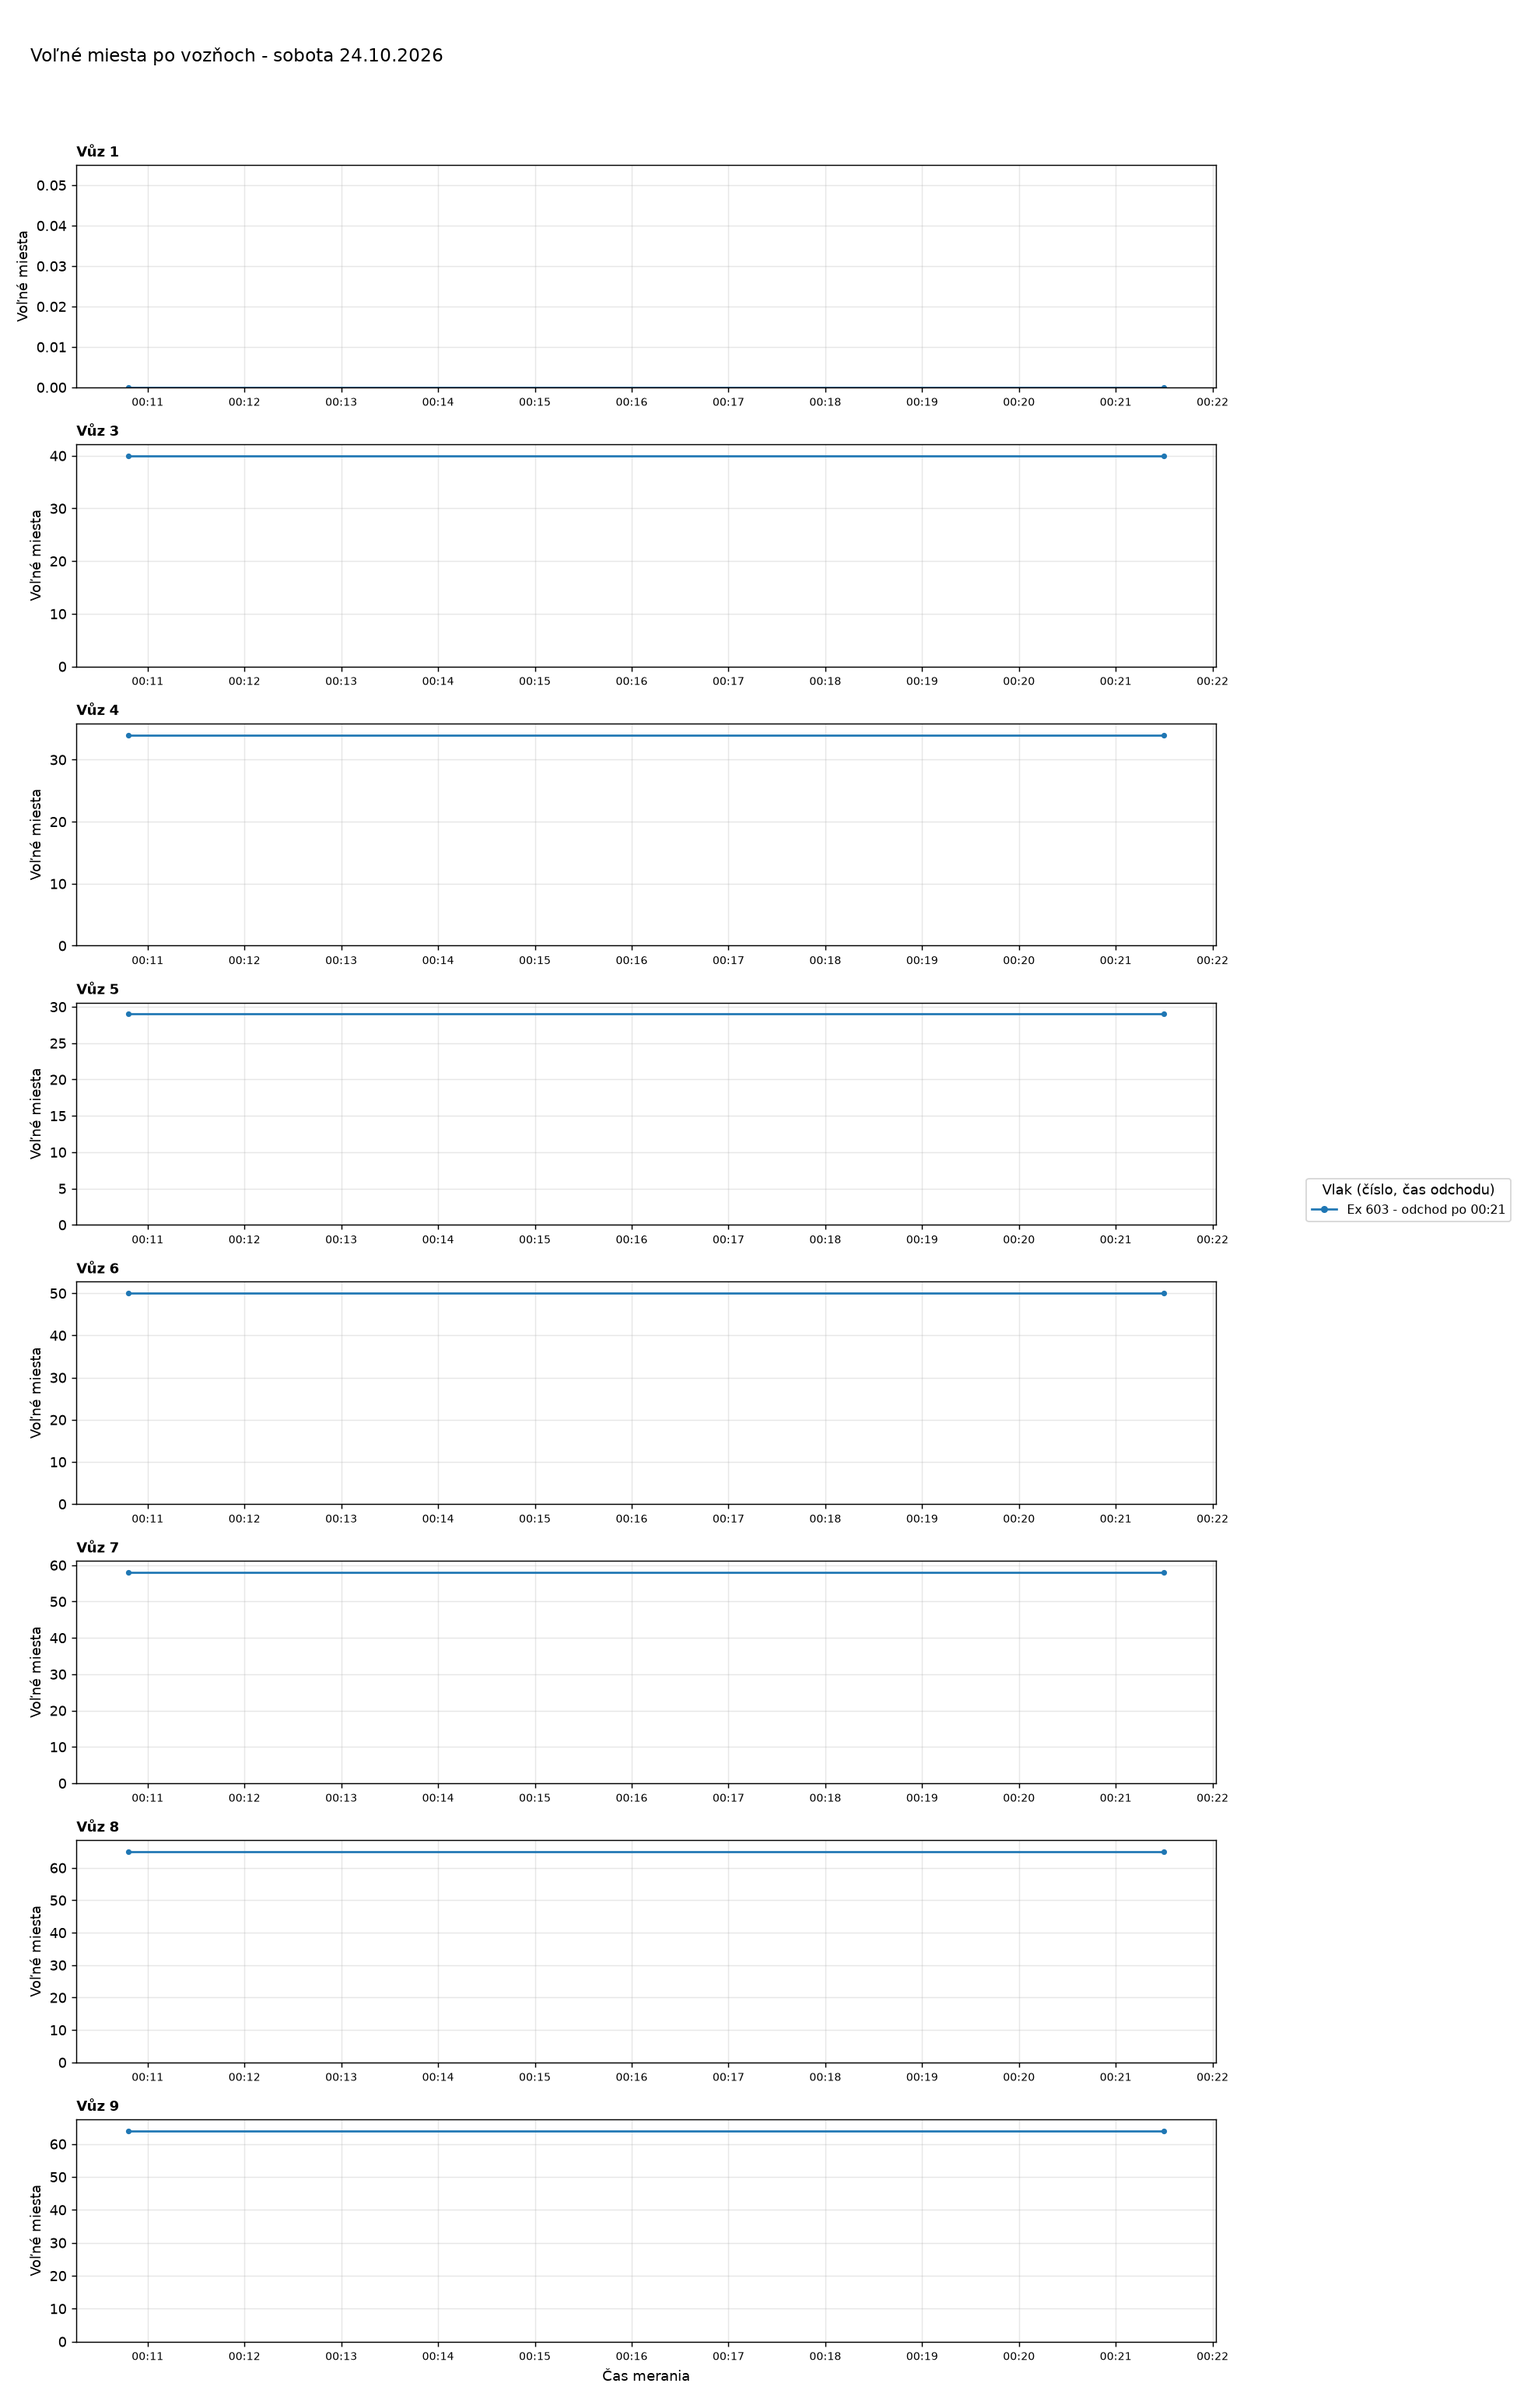
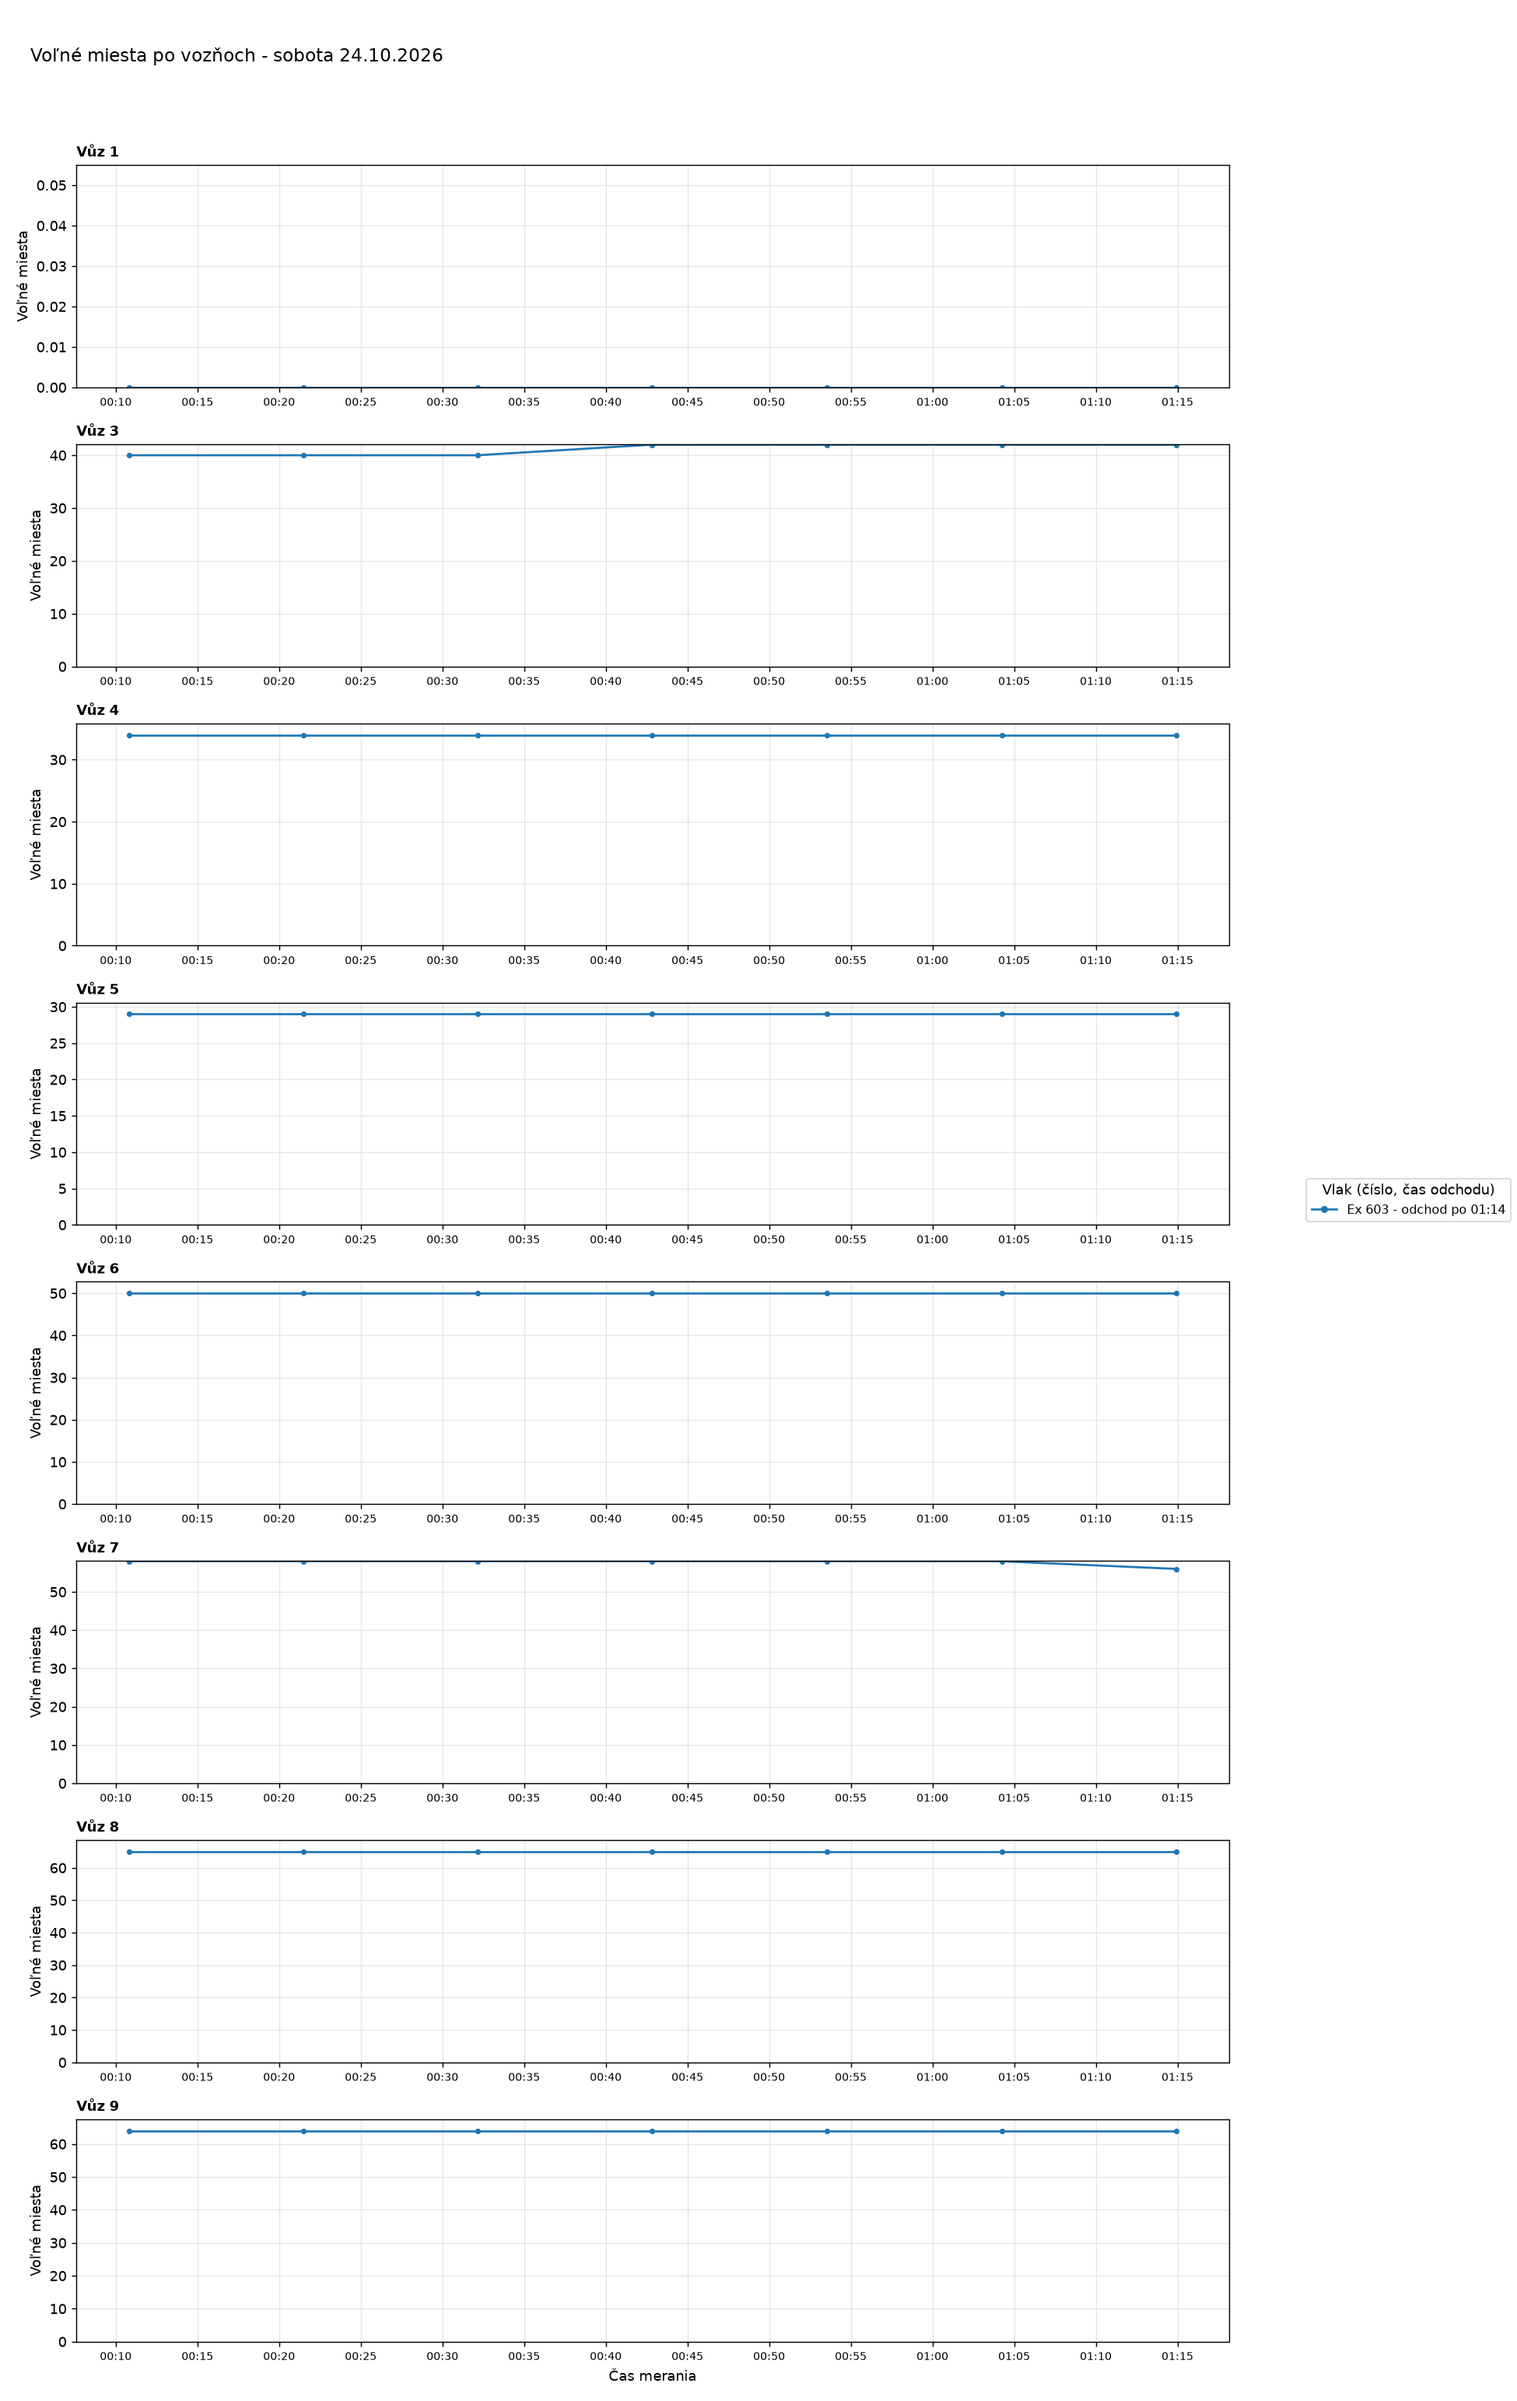
Aktualizácia grafov 2026-10-24 01:24

diff --git a/index.html b/index.html
@@ -35,7 +35,7 @@ h2.oddiel{margin:36px 0 0;font-size:1.4rem}
 <body>
 <main>
 <h1>Voľné miesta vo vlakoch</h1>
-<p class="muted">Posledné meranie: 24.10.2026 00:21 ·
+<p class="muted">Posledné meranie: 24.10.2026 01:14 ·
 <a href="data/obsadenost_data.csv">stiahnuť dáta (CSV)</a></p>
 <nav class="nav"><a href="#suhrn">Súhrn</a><a href="#statistiky">Štatistiky</a><a href="#historia">História grafov</a></nav>
 
@@ -44,7 +44,7 @@ h2.oddiel{margin:36px 0 0;font-size:1.4rem}
 <div class="tablewrap"><table>
 <thead><tr><th>Deň</th><th>Meraní</th><th>Vlakov</th><th>Čas meraní</th></tr></thead>
 <tbody>
-<tr><td><a href="#d2026-10-24">sobota 24.10.2026</a></td><td>2</td><td>1</td><td>00:10-00:21</td></tr>
+<tr><td><a href="#d2026-10-24">sobota 24.10.2026</a></td><td>7</td><td>1</td><td>00:10-01:14</td></tr>
 <tr><td><a href="#d2026-10-23">piatok 23.10.2026</a></td><td>64</td><td>13</td><td>07:25-23:49</td></tr>
 <tr><td><a href="#d2026-10-22">štvrtok 22.10.2026</a></td><td>80</td><td>11</td><td>00:08-16:10</td></tr>
 <tr><td><a href="#d2026-10-21">streda 21.10.2026</a></td><td>96</td><td>15</td><td>00:10-23:58</td></tr>
